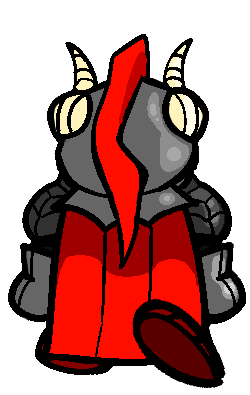
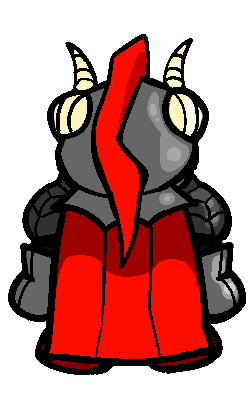
Animations work, I'll improve apon them latter

Changed region(s): [[0.532, 0.7595, 0.896, 1.0]]

diff --git a/core/src/com/mygdx/dangerdungeon/game/Assets.java b/core/src/com/mygdx/dangerdungeon/game/Assets.java
@@ -148,6 +148,7 @@ public class Assets implements Disposable, AssetErrorListener
 		public final Animation<AtlasRegion> animBack;
 		public final Animation<AtlasRegion> animSide;
 		public final Animation<AtlasRegion> animOtherSide;
+		public final Animation<AtlasRegion> standFront;
 		public final AtlasRegion knightBack;
 		public final AtlasRegion knightSide;
 		public final AtlasRegion knightOtherSide;
@@ -167,21 +168,23 @@ public class Assets implements Disposable, AssetErrorListener
 			
 			//Animation: Front
 			regions = atlas.findRegions("Knightoofront");
-			animFront = new Animation<AtlasRegion>(1.0f/ 10.0f, regions, Animation.PlayMode.LOOP_PINGPONG);
+			animFront = new Animation<AtlasRegion>(1.0f/4.0f, regions, Animation.PlayMode.LOOP);
 			
 			//Animation: Back
 			regions = atlas.findRegions("Knightooback");
-			animBack = new Animation<AtlasRegion>(1.0f/10.0f, regions, Animation.PlayMode.LOOP_PINGPONG);
+			animBack = new Animation<AtlasRegion>(1.0f/4.0f, regions, Animation.PlayMode.LOOP);
 			
 			//Animation: Side
 			regions = atlas.findRegions("Knightooside");
-			animSide = new Animation<AtlasRegion>(1.0f/ 10.0f, regions, Animation.PlayMode.LOOP_PINGPONG);
+			animSide = new Animation<AtlasRegion>(1.0f/ 4.0f, regions, Animation.PlayMode.LOOP);
 			
 			//Animation: OtherSide
 			regions = atlas.findRegions("Knightoosideother");
-			animOtherSide = new Animation<AtlasRegion>(1.0f/ 10.0f, regions, Animation.PlayMode.LOOP_PINGPONG);
+			animOtherSide = new Animation<AtlasRegion>(1.0f/ 4.0f, regions, Animation.PlayMode.LOOP);
 			
-			//Animation: OtherSide
+			regions = atlas.findRegions("Knightoofront_01");
+			standFront = new Animation<AtlasRegion>(1.0f/4.0f, regions, Animation.PlayMode.LOOP);
+			
 		}
 		
 

diff --git a/core/src/com/mygdx/dangerdungeon/objects/Knight.java b/core/src/com/mygdx/dangerdungeon/objects/Knight.java
@@ -36,6 +36,7 @@ public class Knight extends AbstractGameObject{
 	private Animation<AtlasRegion> animBack;
 	private Animation<AtlasRegion> animSide;
 	private Animation<AtlasRegion> animOtherSide;
+	private Animation<AtlasRegion> standFront;
 	
 	public Knight()
 	{
@@ -47,12 +48,13 @@ public class Knight extends AbstractGameObject{
 	 */
 	public void init()
 	{
-		dimension.set(2.0f,2.0f);
+		dimension.set(1,1);
 		
 		animFront = Assets.instance.knight.animFront;
 		animBack = Assets.instance.knight.animBack;
 		animSide = Assets.instance.knight.animSide;
 		animOtherSide = Assets.instance.knight.animOtherSide;
+		standFront = Assets.instance.knight.standFront;
 		regKnight = Assets.instance.knight.knightFront;
 		setAnimation(animFront);
 		//regKnight = Assets.instance.knight.knight;

diff --git a/core/src/com/mygdx/dangerdungeon/objects/WallUp.java b/core/src/com/mygdx/dangerdungeon/objects/WallUp.java
@@ -5,7 +5,7 @@ import com.badlogic.gdx.graphics.g2d.TextureRegion;
 import com.mygdx.dangerdungeon.game.Assets;
 
 /**
- * Top Wall
+ * Wall bottom
  * @author Tyler Forrester
  *
  */
@@ -27,14 +27,13 @@ public class WallUp extends AbstractGameObject
 	 */
 	private void init() 
 	{
-		dimension.set(2.0f,2.0f);
+		dimension.set(1,1);
 		
 		wall = Assets.instance.wall_up.wall_up;
 	
 		bounds.set(0,0,dimension.x,dimension.y);
 		origin.set(dimension.x / 2.0f, dimension.y / 2.0f);
 	}
-	
 	
 	/**
 	 * Draws the object
@@ -49,3 +48,4 @@ public class WallUp extends AbstractGameObject
 	}
 
 }
+

diff --git a/core/src/com/packtpub/libgdx/dangerdungeon/util/Constants.java b/core/src/com/packtpub/libgdx/dangerdungeon/util/Constants.java
@@ -18,10 +18,10 @@ public class Constants
 	//Location of image file for level 01
 	public static final String LEVEL_01 = "levels/level-01.png";
 	//Visible game world is 5 meters wide
-	public static final float VIEWPORT_WIDTH = 25.0f;
-	
+	public static final float VIEWPORT_WIDTH = 12.5f;
+
 	//Visible game world is 5 meters tall
-	public static final float VIEWPORT_HEIGHT = 25.0f;
+	public static final float VIEWPORT_HEIGHT = 12.5f;
 	
 	public static final float OFFSET = 1f;
 	

diff --git a/core/src/com/mygdx/dangerdungeon/objects/WallBottomRight.java b/core/src/com/mygdx/dangerdungeon/objects/WallBottomRight.java
@@ -27,7 +27,7 @@ public class WallBottomRight extends AbstractGameObject
 	 */
 	private void init() 
 	{
-		dimension.set(2.0f,2.0f);
+		dimension.set(1,1);
 		
 		wall = Assets.instance.wall_bottomright.wall_bottomright;
 	

diff --git a/core/src/com/mygdx/dangerdungeon/objects/WallBottomLeft.java b/core/src/com/mygdx/dangerdungeon/objects/WallBottomLeft.java
@@ -27,7 +27,7 @@ public class WallBottomLeft extends AbstractGameObject
 	 */
 	private void init() 
 	{
-		dimension.set(2.0f,2.0f);
+		dimension.set(1,1);
 		
 		wall = Assets.instance.wall_bottomleft.wall_bottomleft;
 	

diff --git a/core/src/com/mygdx/dangerdungeon/objects/WallTopRight.java b/core/src/com/mygdx/dangerdungeon/objects/WallTopRight.java
@@ -27,7 +27,7 @@ public class WallTopRight extends AbstractGameObject
 	 */
 	private void init() 
 	{
-		dimension.set(2.0f,2.0f);
+		dimension.set(1,1);
 		
 		wall = Assets.instance.wall_topright.wall_topright;
 	

diff --git a/core/src/com/mygdx/dangerdungeon/objects/WallTopLeft.java b/core/src/com/mygdx/dangerdungeon/objects/WallTopLeft.java
@@ -27,7 +27,7 @@ public class WallTopLeft extends AbstractGameObject
 	 */
 	private void init() 
 	{
-		dimension.set(2.0f,2.0f);
+		dimension.set(1,1);
 		
 		wall = Assets.instance.wall_topleft.wall_topleft;
 	

diff --git a/core/src/com/mygdx/dangerdungeon/objects/WallRight.java b/core/src/com/mygdx/dangerdungeon/objects/WallRight.java
@@ -27,7 +27,7 @@ public class WallRight extends AbstractGameObject
 	 */
 	private void init() 
 	{
-		dimension.set(2.0f,2.0f);
+		dimension.set(1,1);
 		
 		wall = Assets.instance.wall_right.wall_right;
 	

diff --git a/core/src/com/mygdx/dangerdungeon/objects/WallDown.java b/core/src/com/mygdx/dangerdungeon/objects/WallDown.java
@@ -27,7 +27,7 @@ public class WallDown extends AbstractGameObject
 	 */
 	private void init() 
 	{
-		dimension.set(2.0f,2.0f);
+		dimension.set(1,1);
 		
 		wall = Assets.instance.wall_down.wall_down;
 	

diff --git a/core/src/com/mygdx/dangerdungeon/objects/WallLeft.java b/core/src/com/mygdx/dangerdungeon/objects/WallLeft.java
@@ -27,7 +27,7 @@ public class WallLeft extends AbstractGameObject
 	 */
 	private void init() 
 	{
-		dimension.set(2.0f,2.0f);
+		dimension.set(1,1);
 		
 		wall = Assets.instance.wall_left.wall_left;
 	

diff --git a/core/src/com/mygdx/dangerdungeon/objects/Chest.java b/core/src/com/mygdx/dangerdungeon/objects/Chest.java
@@ -27,7 +27,7 @@ public class Chest extends AbstractGameObject
 	 */
 	private void init() 
 	{
-		dimension.set(2.0f,2.0f);
+		dimension.set(1,1);
 		
 		tile = Assets.instance.chest.chest;
 	
